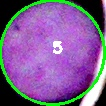
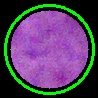
monday

diff --git a/circledetector.py b/circledetector.py
@@ -24,48 +24,75 @@ img = cv2.cvtColor(img, cv2.COLOR_BGR2GRAY)
 # apply a blur using the median filter
 img = cv2.medianBlur(img, 5)
 # finds the circles in the grayscale image using the Hough transform
-circles = cv2.HoughCircles(image=img, method=cv2.HOUGH_GRADIENT, dp=1,
-                            minDist=300, param1=40, param2=23,minRadius=45, maxRadius=60)
+circles = cv2.HoughCircles(
+    image=img,
+    method=cv2.HOUGH_GRADIENT, 
+    dp=1,
+    minDist=300, 
+    param1=40, 
+    param2=23,
+    minRadius=45, 
+    maxRadius=60
+)
 print(circles)
 print("asd")
 print(circles[0,:,0])
 print("asd")
-# contours = circles[0][:].argsort(axis=0)
-contours = np.sort(circles[0][:], axis=0)
-# i sort tanan columns by rows
-# contours = sorted(circles, key = lambda x: x[0][:])
-print(contours)
+NUM_ROWS = 3
+#sort circles
+circles = np.round(circles[0, :]).astype("int")
+circles = sorted(circles, key=lambda v: [v[0], v[0]])
+print(circles)
 
+sorted_cols = []
+for k in range(0, len(circles), NUM_ROWS):
+    col = circles[k:k+NUM_ROWS]
+    sorted_cols.extend(sorted(col, key=lambda v: v[1]))
 
-mask = np.zeros(shape=img.shape[0:2], dtype="bool")
-for loop!!!!
-circle = cv2.circle(img,(circles[0,:,0], circles[0,:,1]),50, (255,255,255),-1)
-mask[circle] = 1
+circles = sorted_cols
+print(circles)
 
-cv2.imshow(mask)
+circles = np.uint16(np.around(circles))
 
+#initialize mask for the paper sensor
+mask = np.zeros(shape=img.shape[0:2],dtype='uint8')
 
-for co, i in enumerate(circles[0, :], start=1):
+#create mask for each paper sensor
+for co, i in enumerate(circles, start=1):
+    # draw the outer circle
+    cv2.circle(mask,(int(i[0]),int(i[1])),int(i[2]-10),(255,255,255),-1)
+
+cv2.imshow('mask',mask)
+cv2.waitKey(0)
+
+plt.imshow(mask, cmap="brg")
+plt.show()
+
+#add the mask and the image
+masked =  cv2.bitwise_and(cimg,cimg, mask=mask)
+
+cv2.imshow('masked',masked)
+cv2.waitKey(0)
+
+for co, i in enumerate(circles, start=1):
     # draw the outer circle
     print(co)
     print(i[0])
     print(i[1])
     print(i[2])
-    cv2.putText(cimg,str(co),(int(i[0]),int(i[1])),cv2.FONT_HERSHEY_SIMPLEX, 0.5,(255,255,255),2)
-    cv2.circle(cimg,(int(i[0]),int(i[1])),int(i[2]),(0,255,0),2)
-    # draw the center of the circle
-    # cv2.circle(cimg,(int(i[0]),int(i[1])),2,(0,0,255),3)
-
+    
+    cv2.putText(masked,str(co),(int(i[0]+60),int(i[1])+60),cv2.FONT_HERSHEY_SIMPLEX, 1.5,(255,255,255),2)
+    cv2.circle(masked,(int(i[0]),int(i[1])),int(i[2]-5),(0,255,0),2)
+    
     radius = int(math.ceil(i[2]))
     origin_x = int(math.ceil(i[0]) - radius)
     origin_y = int(math.ceil(i[1]) - radius)
-    print(origin_x)
-    print(origin_y)
+    
 
     cv2.rectangle(cimg,(origin_x-10,origin_y-10),(origin_x+2*radius+10,origin_y+2*radius+10),(200,0,0),2)
 
-    roi=cimg[origin_y:origin_y+2*radius,origin_x:origin_x+2*radius]
-    roi2=cimg[origin_y+20:origin_y+2*radius-20,origin_x+20:origin_x+2*radius-20]
+    roi=masked[origin_y:origin_y+2*radius,origin_x:origin_x+2*radius]
+    roi2=masked[origin_y+20:origin_y+2*radius-20,origin_x+20:origin_x+2*radius-20]
     cv2.imwrite("ROI/"+str(co) + '.jpg', roi)
     cv2.imwrite("ROI/"+'square'+str(co) + '.jpg', roi2)
 
@@ -75,5 +102,7 @@ print("Number of circles detected:", co)
 # save the image, convert to BGR to save with proper colors
 # cv2.imwrite("coins_circles_detected.png", cimg)
 # show the image
-plt.imshow(cimg)
+plt.imshow(masked)
 plt.show()
+
+
